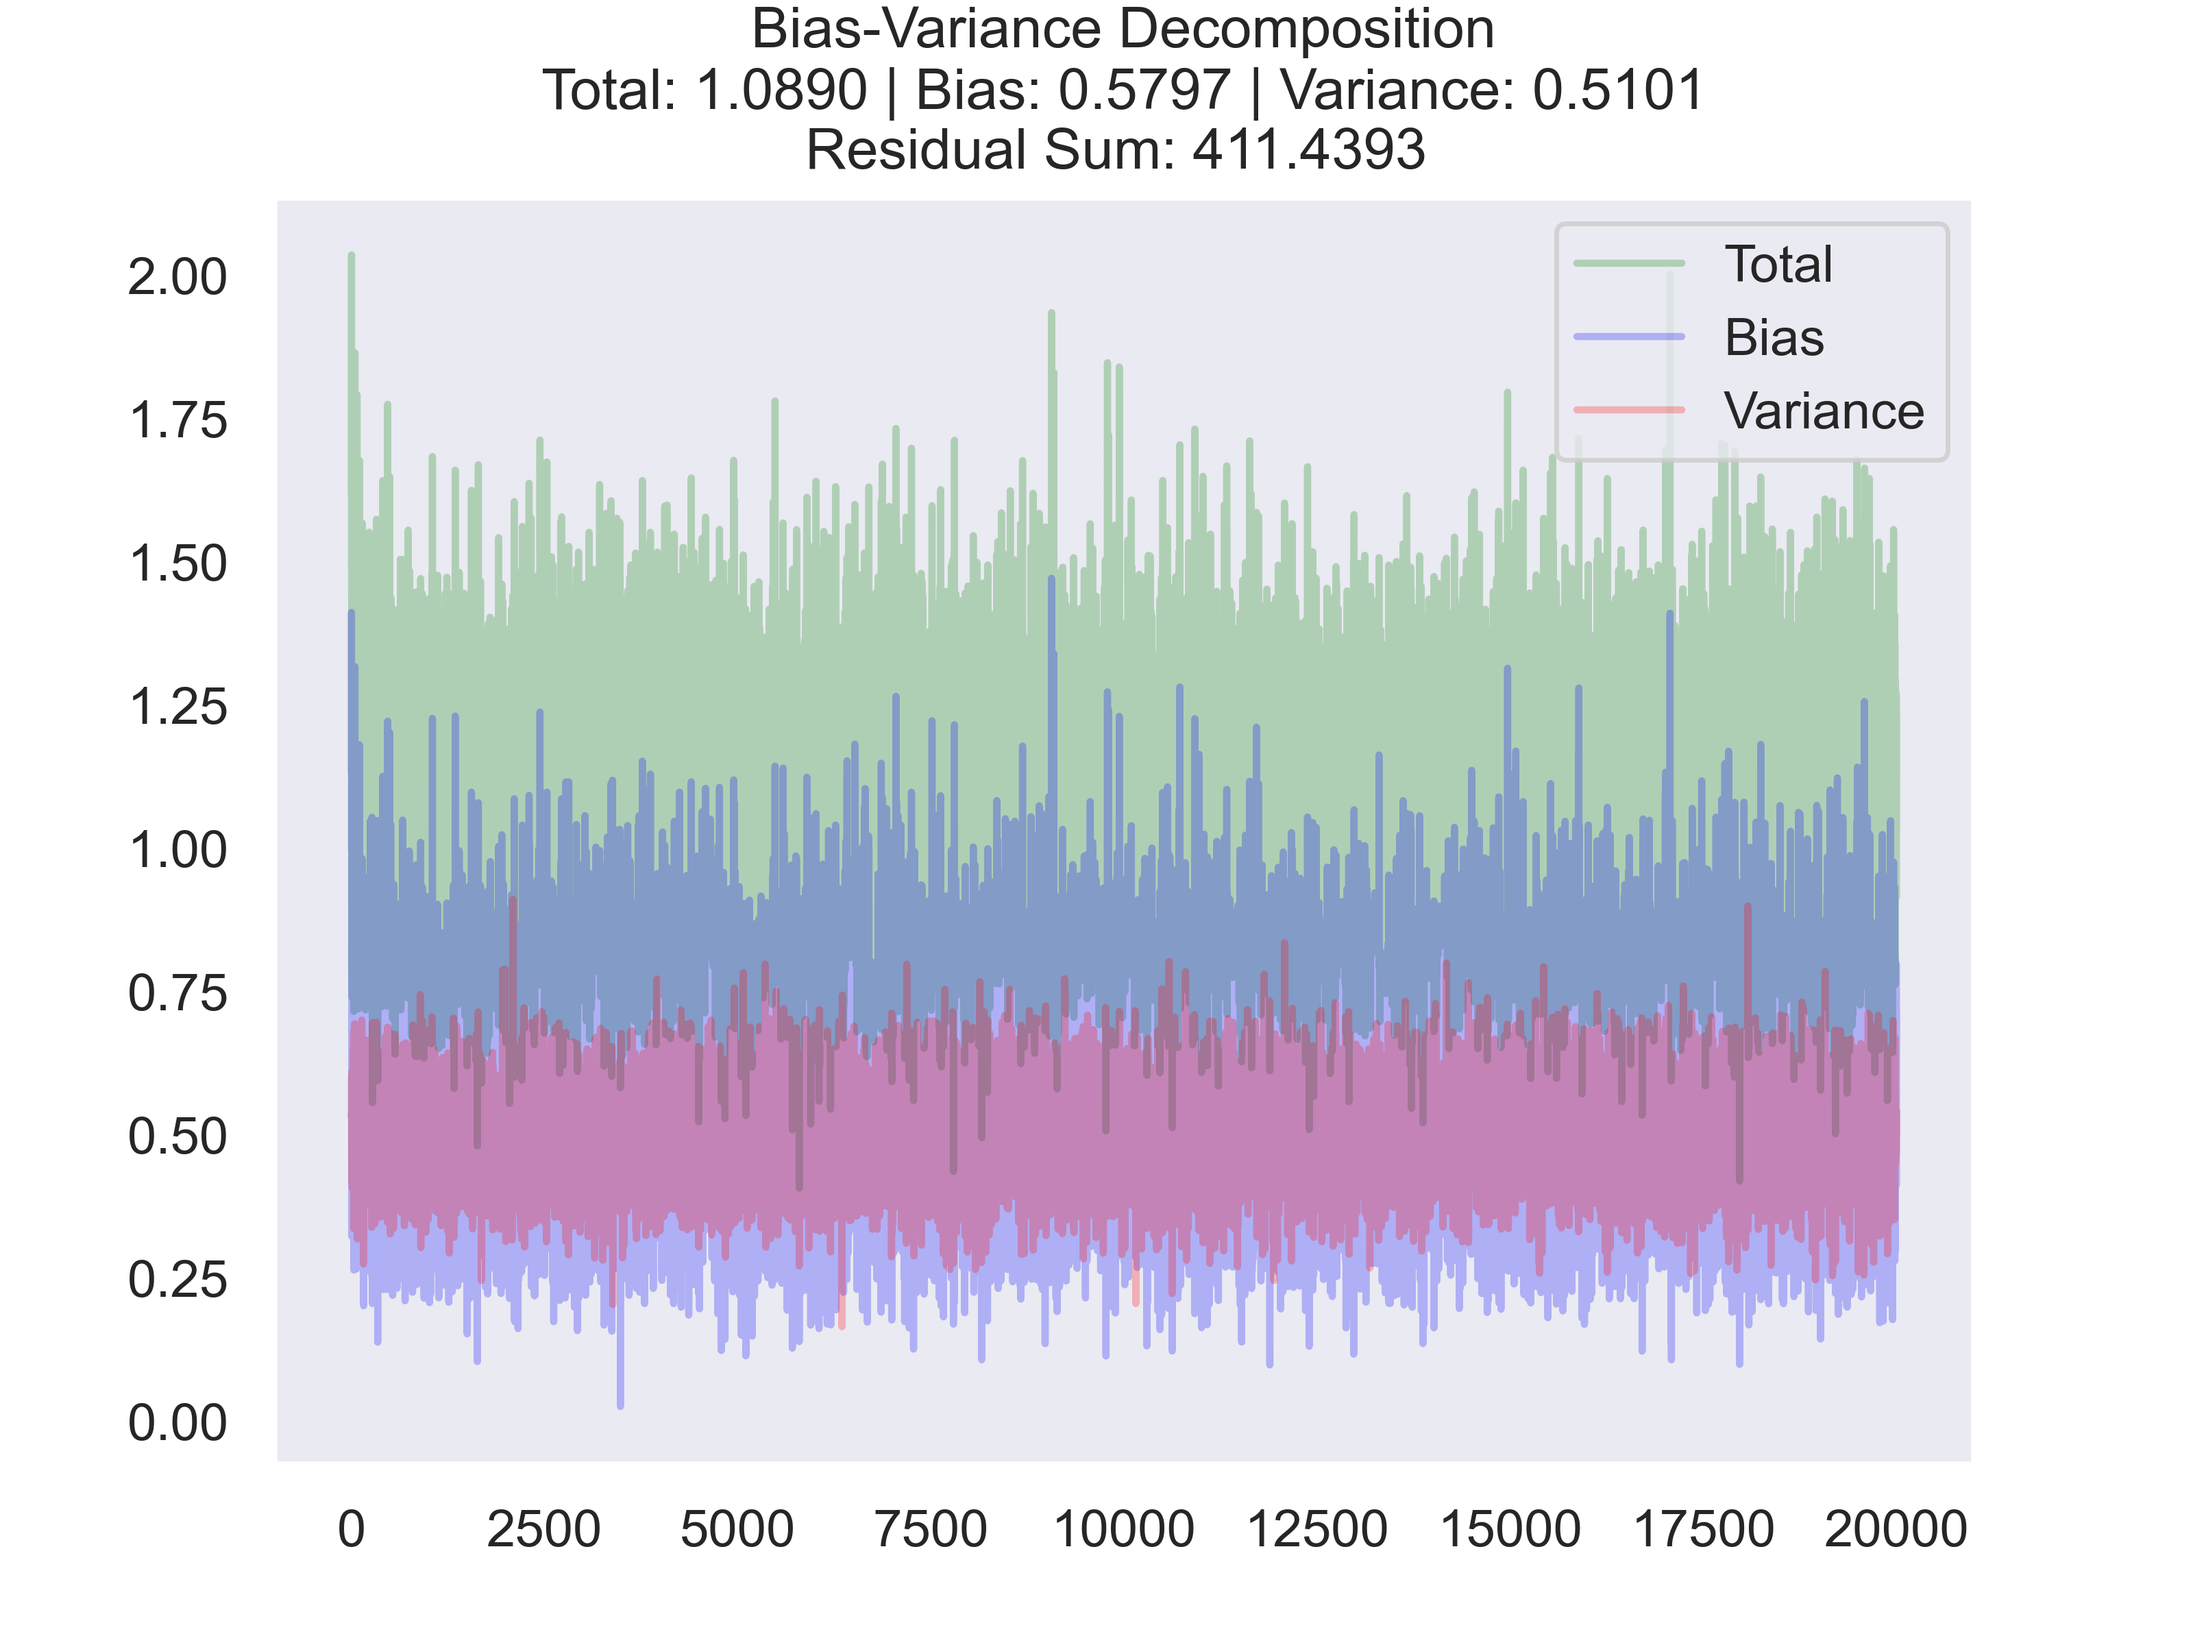
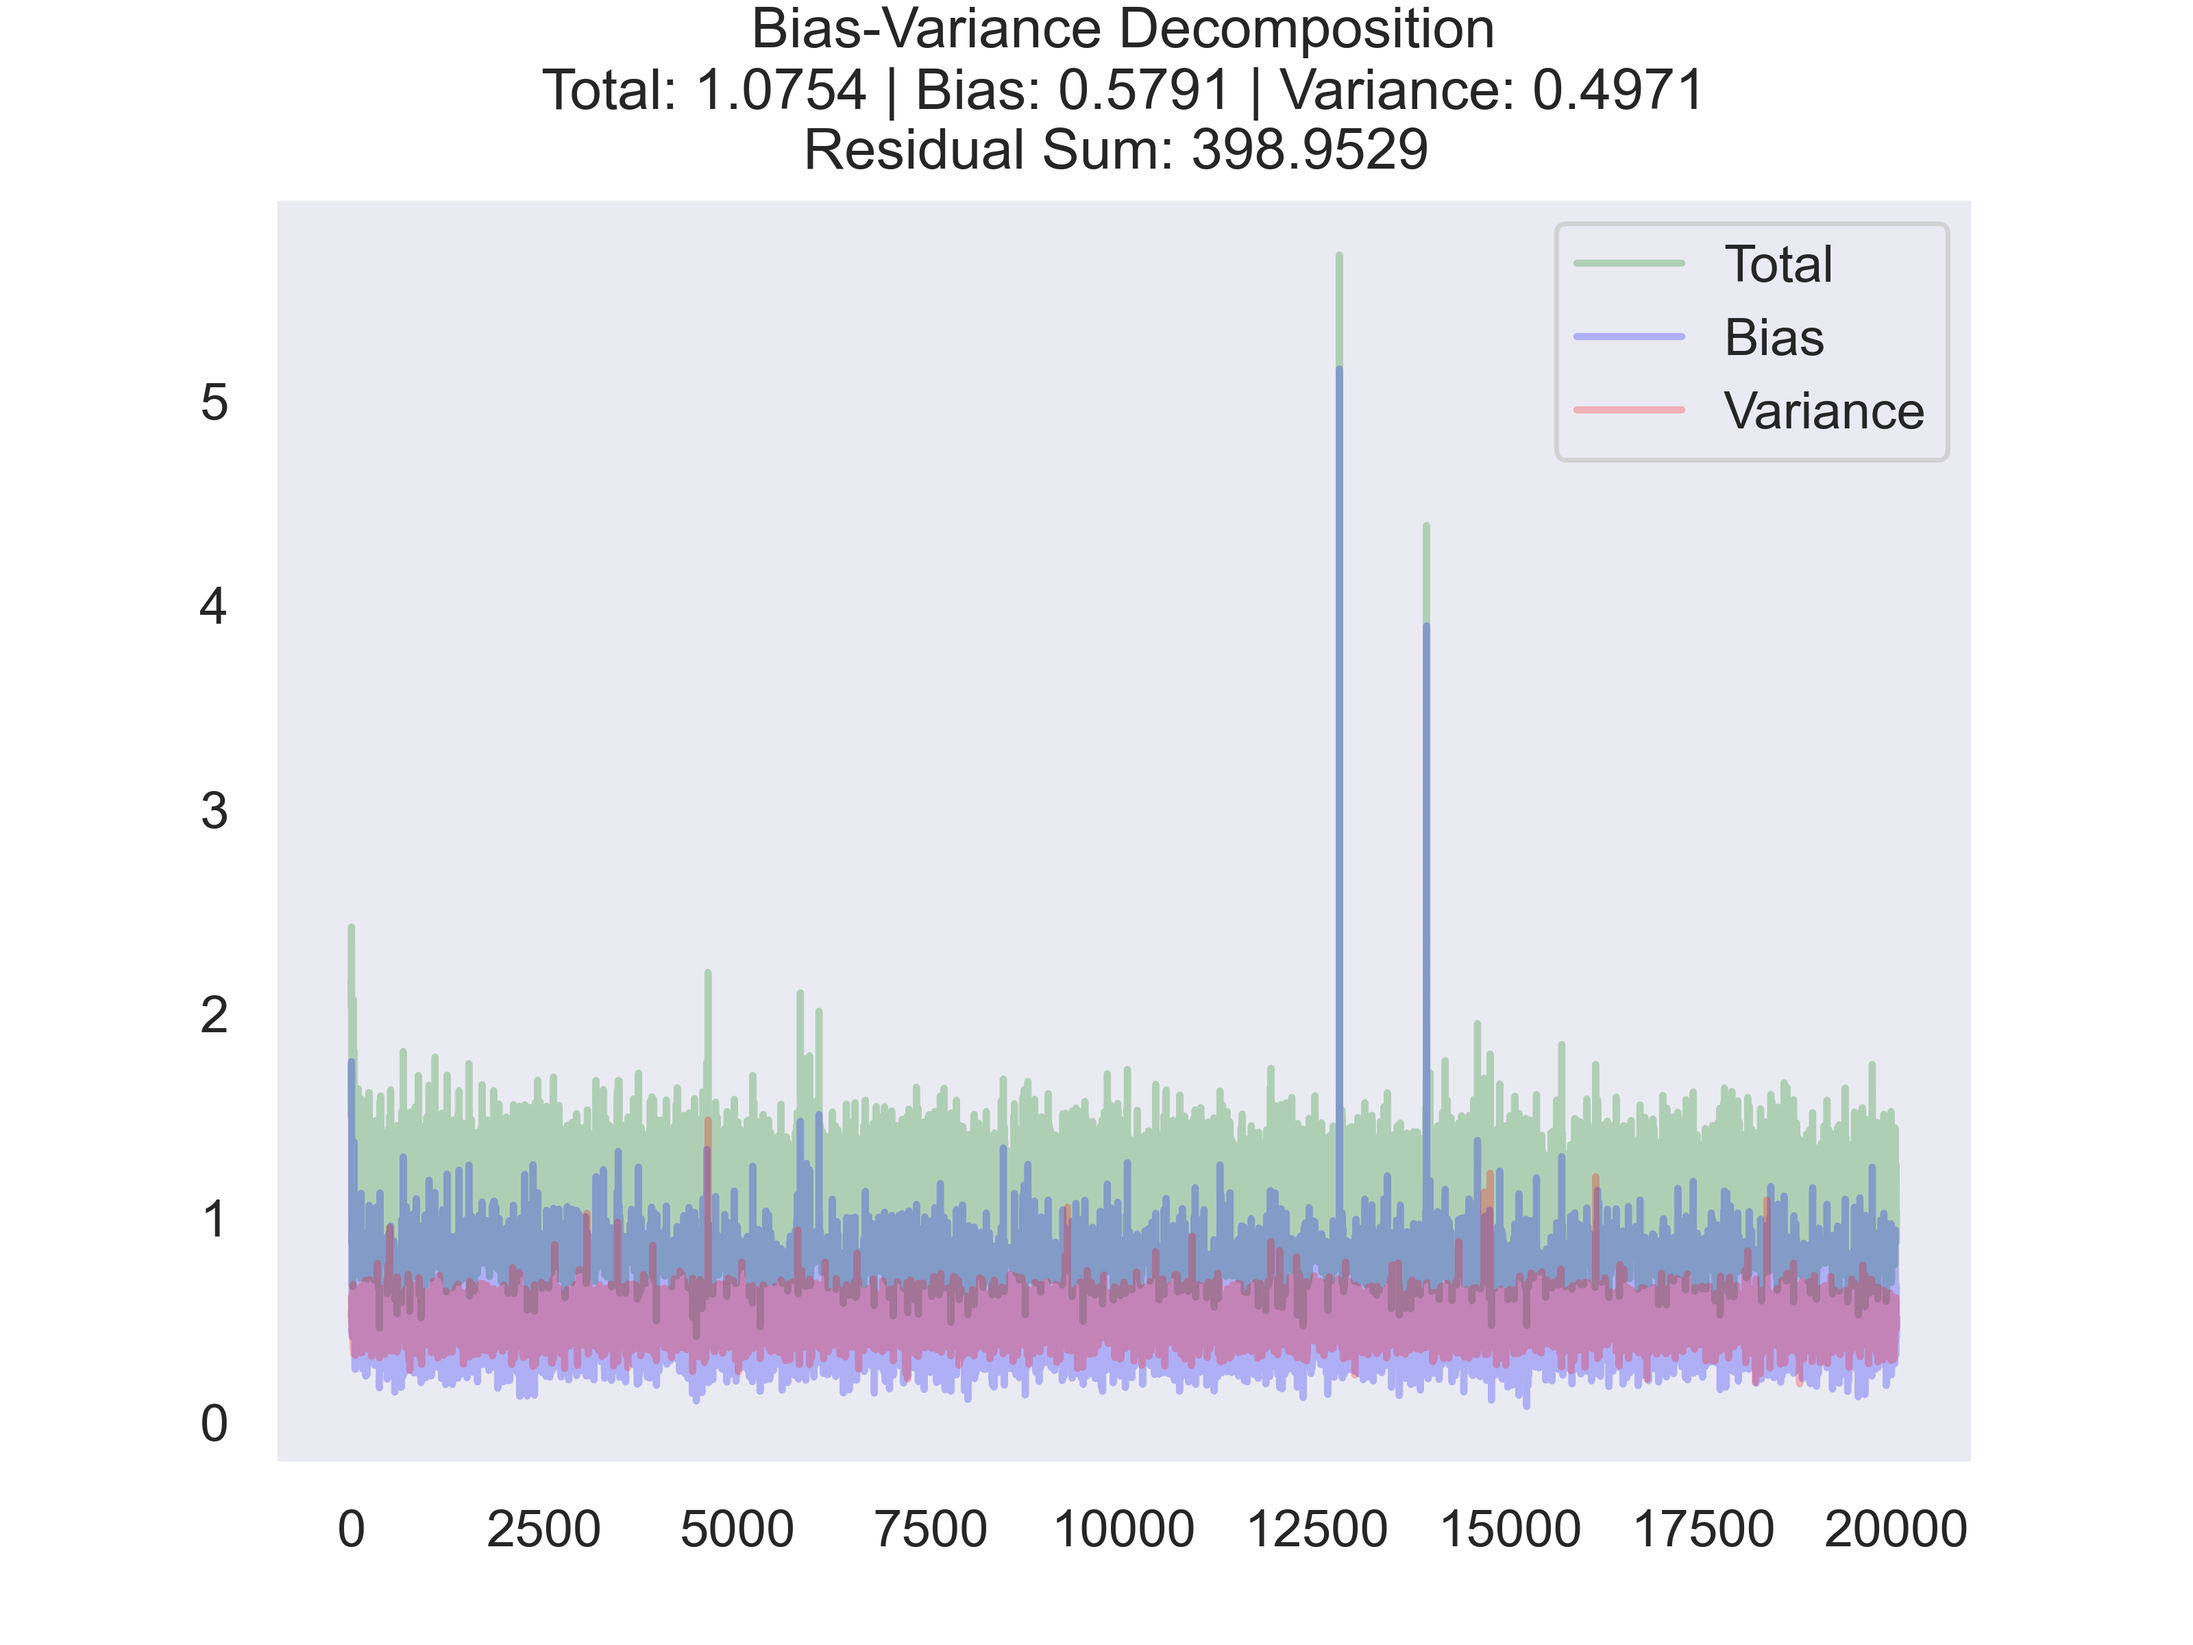
//

diff --git a/sibyl/utils/datasets.py b/sibyl/utils/datasets.py
@@ -40,7 +40,7 @@ def alpaca(config: "Config") -> tuple[Tensor, Tensor]:
 @cache
 def ett(
     config: "Config",
-    directory: str = "sibyl/assets/datasets/ETT-small",
+    directory: str | None = None,
     file: str = "ETTh1.csv",
 ) -> tuple[Tensor, Tensor]:
     """
@@ -48,6 +48,10 @@ def ett(
 
     :return: Feature windows, target windows
     """
+    directory = directory or os.path.join(
+        find_root_dir(os.path.dirname(__file__)), "assets", "datasets", "ett"
+    )
+
     # Load the CSVs
     X = pd.read_csv(f"{directory}/{file}")
 
@@ -82,12 +86,16 @@ def ett(
 @cache
 def eld(
     config: "Config",
-    directory: str = "/Users/collin/PycharmProjects/sibyl/assets/datasets/ELD",
+    directory: str | None = None,
     file: str = "LD2011_2014.txt",
 ) -> tuple[Tensor, Tensor]:
     """
     Parse the ELD text file and return tensors of shape (batch, features, time).
     """
+    directory = directory or os.path.join(
+        find_root_dir(os.path.dirname(__file__)), "assets", "datasets", "eld"
+    )
+
     X = pd.read_csv(f"{directory}/{file}", delimiter=";", decimal=",")
 
     # Remove the date column

diff --git a/sibyl/utils/plot.py b/sibyl/utils/plot.py
@@ -121,13 +121,20 @@ def bias_variance_plot(
     m_b_v = torch.mean(torch.tensor(bias_variance[-100:])).item()
     b = torch.mean(torch.tensor(bias[-100:])).item()
     v = torch.mean(torch.tensor(variance[-100:])).item()
+    residual_sum = torch.sum(torch.tensor(residuals[-100:])).item()
+
+    config.log.metric(
+        f"Synopsis - {config.dataset_name} - {criterion}\n"
+        + f"Bias: {b:.4f} - Variance: {v:.4f} - Total: {m_b_v:.4f}\n"
+        + f"Residual Sum: {residual_sum:.0f}"
+    )
 
     plt.title(
         f"Bias-Variance Decomposition\n"
         f"Total: {m_b_v:.4f} "
         f"| Bias: {b:.4f} "
         f"| Variance: {v:.4f}\n"
-        f"Residual Sum: {torch.sum(torch.tensor(residuals[-100:])).item():.4f} "
+        f"Residual Sum: {residual_sum:.4f} "
     )
 
     path: str = find_root_dir(os.path.dirname(__file__))
@@ -141,7 +148,3 @@ def bias_variance_plot(
         dpi=500,
     )
     plt.show()
-
-    config.log.info(
-        f"Model Synopsis: {criterion} - Bias: {b:.4f} - Variance: {v:.4f} - Total: {m_b_v:.4f}"
-    )

diff --git a/sibyl/utils/log.py b/sibyl/utils/log.py
@@ -18,6 +18,8 @@ class NullLogger:
 
     def error(self, *args, **kwargs): ...
 
+    def metric(self, *args, **kwargs): ...
+
 
 def logger(file_name: str, dataset: str = "") -> Logger:
     """
@@ -44,6 +46,16 @@ def logger(file_name: str, dataset: str = "") -> Logger:
     # Create a logger
     log = logging.getLogger("my_logger")
     log.setLevel(logging.DEBUG)
+
+    # Add a "metric" level to the logger
+    logging.METRIC = 25
+    logging.addLevelName(logging.METRIC, "METRIC")
+
+    def metric(self, message, *args, **kws):
+        if self.isEnabledFor(logging.METRIC):
+            self._log(logging.METRIC, message, args, **kws)
+
+    logging.Logger.metric = metric
 
     # Create a file handler to log to a log file
     file_handler = logging.FileHandler(log_file_path)

diff --git a/sibyl/utils/retrieval.py b/sibyl/utils/retrieval.py
@@ -62,16 +62,10 @@ def fetch_data(config: "Config") -> list:
         case _:
             end = datetime.today()
 
-    data = []
-
-    for ticker in tqdm(tickers, desc="Retrieving Data"):
-        data.append(
-            alpaca_time_series(
-                [ticker],
-                end - timedelta(365 * config.years),
-                end,
-            )
-        )
+    data = [
+        alpaca_time_series([ticker], end - timedelta(365 * config.years), end)
+        for ticker in tqdm(tickers, desc="Fetching data...")
+    ]
 
     config.log.info("Retrieved data from the Alpaca API.")
 

diff --git a/sibyl/workflows/training.py b/sibyl/workflows/training.py
@@ -240,13 +240,13 @@ def main():
     """
     loss_functions = (
         # "Fourier",
-        "CMaxAE",
         "MaxAE",
         "MaxSE",
         # "MaxAPE",
         "MSE",
         "MAE",
-        "CMaxSE",
+        # "CMaxSE",
+        # "CMaxAE",
     )
 
     for loss in loss_functions:
